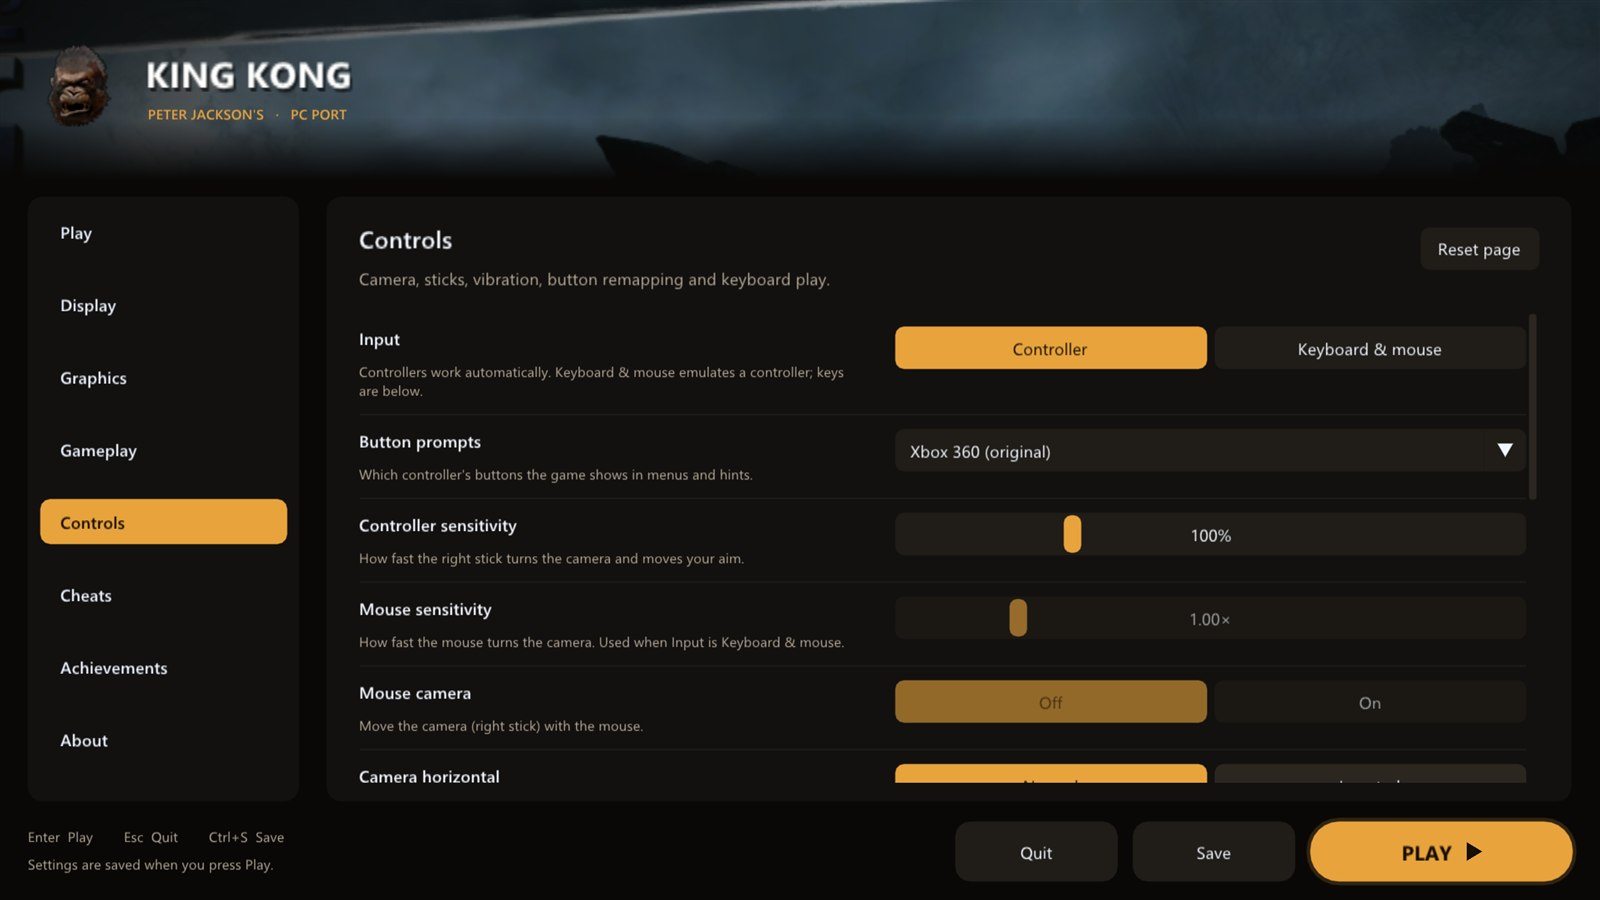
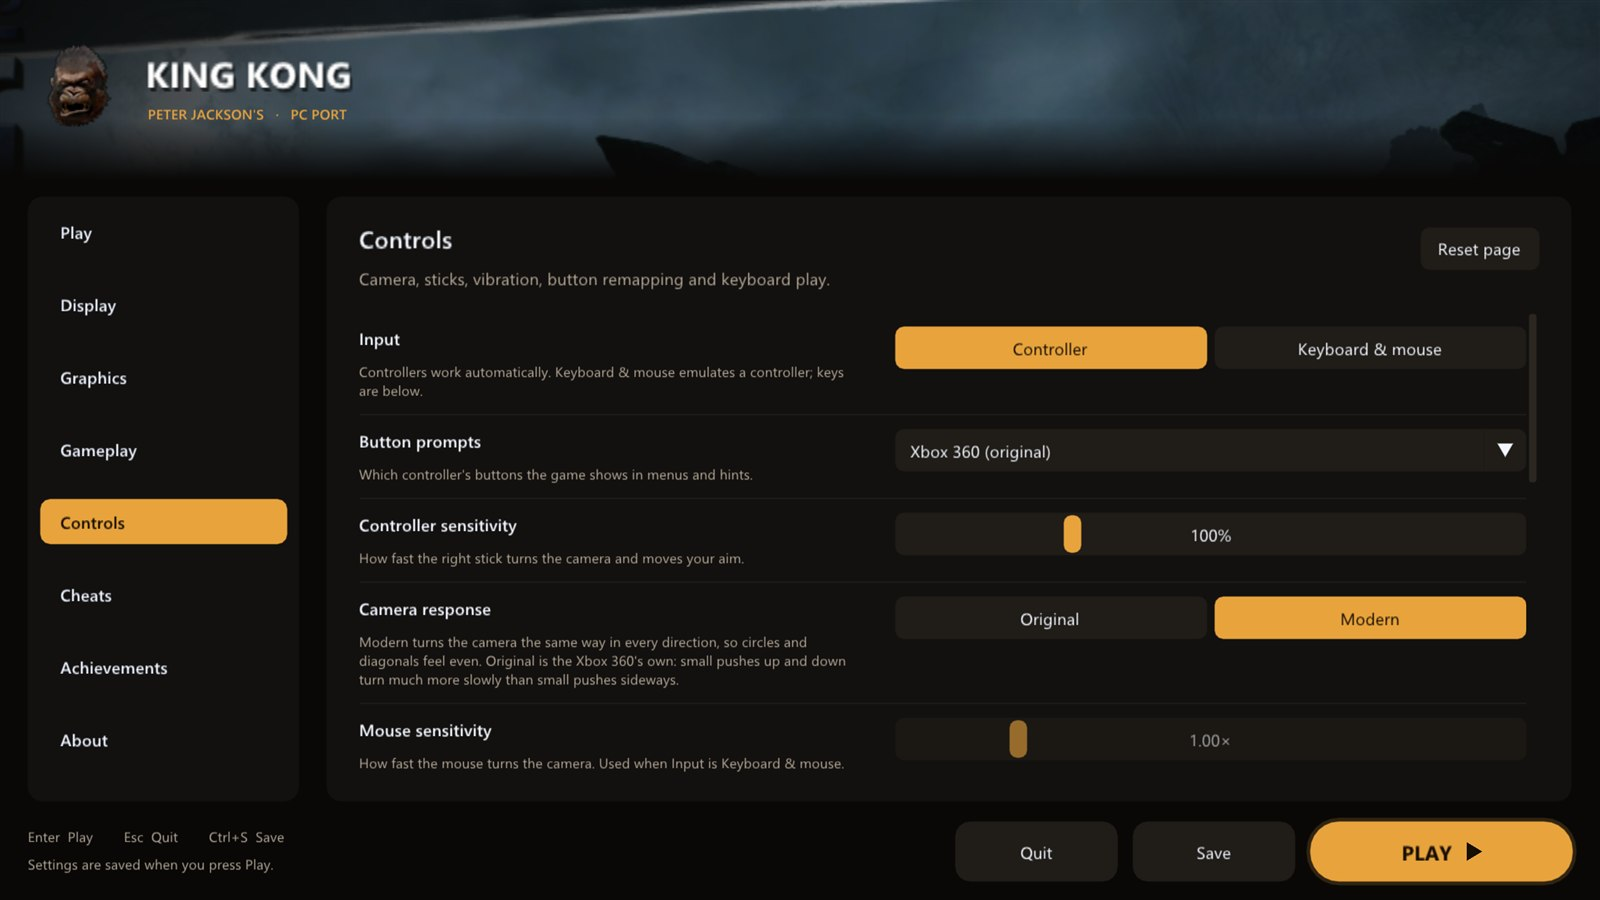
Launcher: Camera response setting (Modern by default, or Original)
Controls page, "Camera response": Modern (kk_camera_modern, default) is
the even response, the same curve in every direction; Original leaves
the right stick as the Xbox 360 game reads it (square across, cube up
and down, per-axis deadzone). Controller sensitivity applies to both.
Included in the Controls page's Reset. README lists it, with the
launcher screenshots retaken; the dev screenshot tour now closes the
start-up What's new pop-up so it can't cover the pages.

diff --git a/kk/src/launcher.cpp b/kk/src/launcher.cpp
@@ -1049,6 +1049,10 @@ class Launcher final : public rex::ui::ImGuiDialog {
                                       {"Keyboard (your keys)", "keyboard"}});
       Row("Controller sensitivity", "How fast the right stick turns the camera and moves your aim.");
       SliderCvar("kk_camera_sensitivity", 25, 300, "%d%%");
+      Row("Camera response",
+          "Modern turns the camera the same way in every direction, so circles and diagonals feel even. Original is "
+          "the Xbox 360's own: small pushes up and down turn much more slowly than small pushes sideways.");
+      ToggleCvar("kk_camera_modern", "Original", "Modern");
       {
         // Mouse settings apply to Keyboard & mouse input; shown either way so they're easy to find.
         const bool mnk = GetBool("mnk_mode");
@@ -1391,7 +1395,7 @@ class Launcher final : public rex::ui::ImGuiDialog {
       case kGameplay:
         return {"kk_frame_rate", "kk_fov", "kk_show_fps", "kk_skip_intros", "user_language"};
       case kControls:
-        return {"mnk_mode", "kk_button_prompts", "kk_camera_sensitivity", "mnk_sensitivity", "mnk_mouse",
+        return {"mnk_mode", "kk_button_prompts", "kk_camera_sensitivity", "kk_camera_modern", "mnk_sensitivity", "mnk_mouse",
                 "kk_invert_rs_x", "kk_invert_rs_y", "kk_invert_ls_x", "kk_invert_ls_y", "kk_toggle_aim",
                 "kk_deadzone", "kk_vibration", "kk_vibration_strength", "kk_map_*", "@Input/Keybinds/Controller"};
       case kCheatsPage:
@@ -1714,6 +1718,7 @@ class Launcher final : public rex::ui::ImGuiDialog {
     static int shown = -1;
     const int step = int(std::chrono::duration<double>(std::chrono::steady_clock::now() - start).count() / each);
     if (step == shown) return;
+    if (shown < 0) open_whats_new_ = false;  // no start-up pop-up over the pages
     shown = step;
     static const std::pair<Page, const char*> kSteps[] = {
         {kPlay, "play"},         {kDisplay, "display"}, {kGraphics, "graphics"},         {kGameplay, "gameplay"},

diff --git a/kk/src/input_remap.cpp b/kk/src/input_remap.cpp
@@ -170,7 +170,8 @@ REX_HOOK_RAW(sub_821074F8) {
   __imp__sub_821074F8(ctx, base);
 }
 
-// Even camera response. CM_Cam takes the right stick axis by axis: each axis
+// Camera response: Modern (kk_camera_modern, the default) or Original.
+// CM_Cam takes the right stick axis by axis: each axis
 // loses a 15% deadzone, then yaw follows its square and pitch its cube (and a
 // held, nearly full sideways push builds up extra yaw speed). So a diagonal is
 // clipped on both axes and the two axes answer to different curves: half way
@@ -179,6 +180,7 @@ REX_HOOK_RAW(sub_821074F8) {
 // (its sub_8272C610 call) is reshaped so that, after the game's own steps,
 // both axes follow the same curve of the push's length (its square) in the
 // push's direction. A full push straight across or straight up is unchanged.
+// Original leaves the stick as the game reads it.
 namespace {
 constexpr uint32_t kCamStickReturn = 0x824703A8;  // CM_Cam's right-stick read
 constexpr float kCamDeadzone = 0.15f;             // CM_Cam's own, per axis
@@ -204,7 +206,7 @@ REX_EXTERN(__imp__sub_8272C610);
 REX_HOOK_RAW(sub_8272C610) {
   const uint32_t out = ctx.r3.u32, stick = ctx.r4.u32, from = uint32_t(ctx.lr);
   __imp__sub_8272C610(ctx, base);
-  if (stick == 1 && out && from == kCamStickReturn) EvenCameraStick(base, out);
+  if (stick == 1 && out && from == kCamStickReturn && REXCVAR_GET(kk_camera_modern)) EvenCameraStick(base, out);
 }
 
 // Controller sensitivity. The camera manager (CM_Cam, sub_8246F180) reads the

diff --git a/kk/src/settings.cpp b/kk/src/settings.cpp
@@ -28,6 +28,8 @@ REXCVAR_DEFINE_STRING(kk_button_prompts, "xbox360", "KK/Controls",
 REXCVAR_DEFINE_BOOL(kk_show_fps, false, "KK/Video", "Show a frame-rate counter (toggle in game with F2)");
 REXCVAR_DEFINE_INT32(kk_deadzone, 0, "KK/Controls", "Extra stick deadzone in percent (0-50)");
 REXCVAR_DEFINE_INT32(kk_camera_sensitivity, 100, "KK/Controls", "Camera (right stick) sensitivity in percent");
+REXCVAR_DEFINE_BOOL(kk_camera_modern, true, "KK/Controls",
+                    "Camera response: true = the same in every direction, false = the Xbox 360's own");
 REXCVAR_DEFINE_BOOL(kk_achievement_toasts, true, "KK/Achievements", "Show achievement notifications");
 REXCVAR_DEFINE_BOOL(kk_achievement_sound, true, "KK/Achievements", "Play the achievement sound");
 REXCVAR_DEFINE_STRING(kk_achievement_sound_file, "", "KK/Achievements",

diff --git a/kk/src/settings.h b/kk/src/settings.h
@@ -24,6 +24,7 @@ REXCVAR_DECLARE(bool, kk_share_poster);
 REXCVAR_DECLARE(bool, kk_show_fps);
 REXCVAR_DECLARE(int32_t, kk_deadzone);
 REXCVAR_DECLARE(int32_t, kk_camera_sensitivity);
+REXCVAR_DECLARE(bool, kk_camera_modern);
 REXCVAR_DECLARE(bool, kk_achievement_toasts);
 REXCVAR_DECLARE(bool, kk_achievement_sound);
 REXCVAR_DECLARE(std::string, kk_achievement_sound_file);

diff --git a/README.md b/README.md
@@ -158,6 +158,7 @@ Everything is set up before the game starts. The launcher uses art from your own
 ### Controls
 - **Invert the camera** left/right and up/down, separately
 - **Controller sensitivity** from 25% to 300%, for looking left and right and up and down
+- **Camera response**: Modern turns the camera the same way in every direction; Original is the Xbox 360's own feel
 - **Mouse sensitivity** and **mouse camera** for keyboard and mouse
 - **Toggle aim**: press the left trigger once to raise the gun and again to lower it, instead of holding it
 - **Stick deadzone** to stop drift
